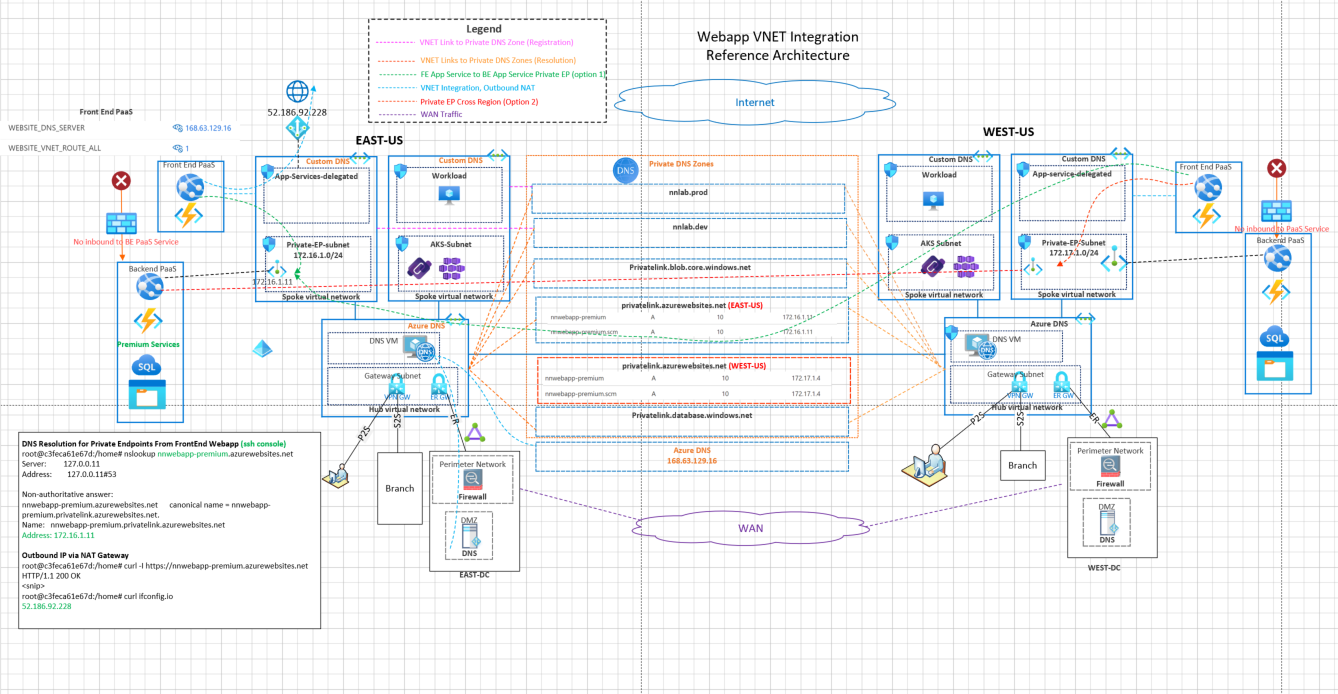
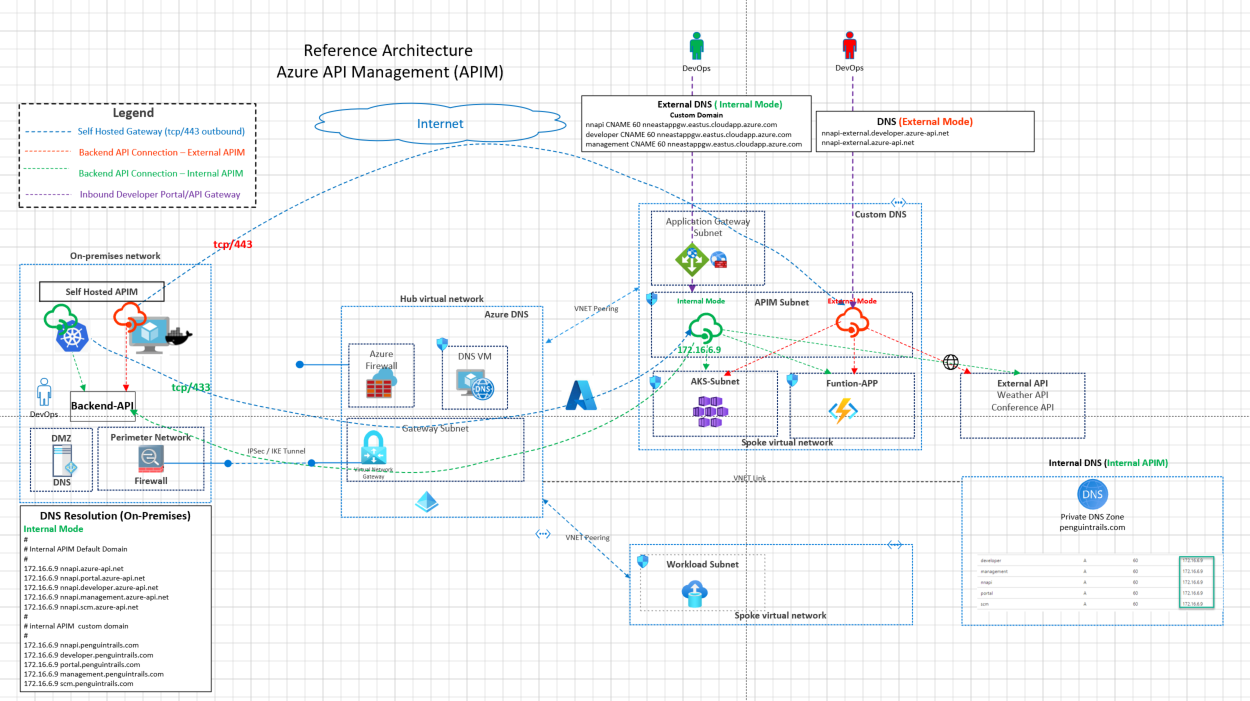
fixed apim diagram

diff --git a/README.md b/README.md
@@ -8,7 +8,7 @@ This is a repo of cross solution network connectivity designs with Azure PaaS se
 
    - [SQL Managed Instance](database-services/README.md)
      - Single Region
-     - Multi region with Replication)
+     - Multi region with Replication
    - [Azure Data Factory(ADF)](database-services/README-ADF.md)
      - Managed VNET and Private Endpoints
      - Self hosted Integration Runtime (IR)
